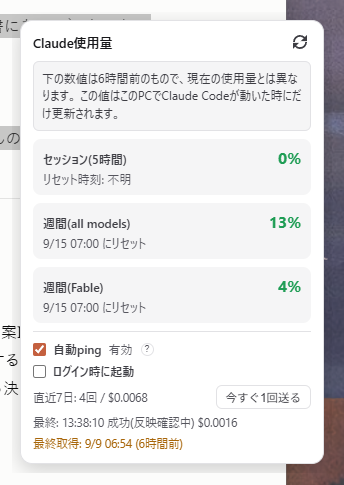
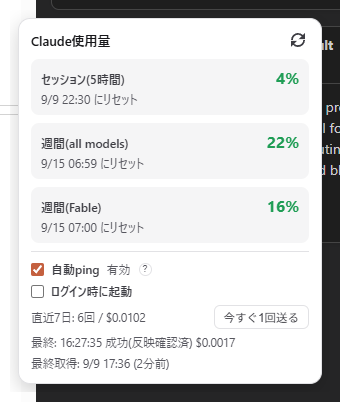
Actually show current usage: free interactive /usage refresh via PTY
The estimate feature from the previous commit was the wrong fix — it
projected a reset TIME while leaving percent at a stale 0%, which reads
as more broken than plain "不明" did, and didn't touch the actual problem
(seeing current usage). This replaces it with a real fix.

Root cause, now fully understood: `claude -p` (any flags) never refreshes
`cachedUsageUtilization` — confirmed extensively. But driving `/usage`
in a genuinely INTERACTIVE session does, immediately, and for free:
"Total cost: $0.0000, 0 input, 0 output" — it's a local account-status
query, not a message to the model. Verified directly via node-pty:
fetchedAtMs updated and the numbers matched the live screen exactly
(55% used, "Resets 5:30pm").

src/main/usage-refresh.ts drives this: spawn claude in a real PTY, handle
the one-time "trust this folder" dialog if it appears (checked against
the RAW buffer — this TUI positions words via cursor-advance escapes, so
ANSI-stripping first fuses "trust this folder" into "trustthisfolder" and
breaks a phrase match), wait for /usage's own content to render, /exit.
Runs every 2 minutes and on every tray click — free, so no reason to wait
5 minutes or only refresh on-demand. The existing paid ping mechanism is
unchanged and still necessary: /usage only refreshes what's displayed, it
makes zero API calls and does not extend the real session window.

Also fixed along the way (not app bugs, packaging lessons):
[…]

diff --git a/src/main/usage-refresh.ts b/src/main/usage-refresh.ts
@@ -1,0 +1,134 @@
+import * as pty from 'node-pty'
+import { mkdirSync } from 'node:fs'
+
+/**
+ * Forces a fresh read of `cachedUsageUtilization` by driving a real
+ * interactive `claude` session through `/usage` and exiting.
+ *
+ * Why this exists: `claude -p` (any flags, including `--safe-mode`,
+ * `--no-session-persistence`) was measured to leave the cache untouched
+ * for 6.75+ hours even under continuous heavy use. Driving `/usage`
+ * through a real PTY, by contrast, refreshes it immediately — verified
+ * directly: `fetchedAtMs` changed and the resulting numbers (55% session,
+ * "Resets 5:30pm") matched the interactive screen exactly. `/usage`
+ * itself is free: the screen it renders shows "Total cost: $0.0000,
+ * 0 input, 0 output" — it's a local account-status query, not a message
+ * to the model. This does NOT extend the session window (see
+ * ping-executor.ts for that) — it only lets the app observe the real
+ * current state instead of guessing.
+ *
+ * A "trust this folder" prompt appears on the first-ever interactive
+ * launch from a given directory and never again afterward (Claude Code
+ * persists the decision) — confirmed by running twice from the same
+ * scratch directory. Always reusing SCRATCH_DIR keeps this a one-time
+ * cost, not a per-refresh one.
+ */
+
+export interface RefreshResult {
+  ok: boolean
+  error?: string
+}
+
+const BOOT_IDLE_MS = 1200
+const POLL_INTERVAL_MS = 300
+const HARD_TIMEOUT_MS = 20_000
+
+function stripEscapes(s: string): string {
+  // Only used for keyword detection, never for parsing values — this is
+  // deliberately lossy (collapses cursor-advance-positioned spaces), see
+  // the raw-buffer note below.
+  // eslint-disable-next-line no-control-regex
+  return s.replace(/\x1b\[[0-9;?]*[a-zA-Z]/g, '')
+}
+
+export function refreshUsageViaInteractiveSession(claudePath: string, scratchDir: string): Promise<RefreshResult> {
+  try {
+    mkdirSync(scratchDir, { recursive: true })
+  } catch {
+    // best-effort
+  }
+
+  return new Promise((resolve) => {
+    let term: pty.IPty
+    try {
+      term = pty.spawn(claudePath, [], {
+        name: 'xterm-color',
+        cols: 120,
+        rows: 40,
+        cwd: scratchDir,
+        env: process.env as Record<string, string>
+      })
+    } catch (e) {
+      resolve({ ok: false, error: `spawn-failed: ${(e as Error).message}` })
+      return
+    }
+
+    let buffer = ''
+    let lastDataAt = Date.now()
+    let stage: 'boot' | 'trust' | 'usage' | 'done' = 'boot'
+    let settled = false
+
+    const finish = (result: RefreshResult): void => {
+      if (settled) return
+      settled = true
+      clearInterval(poll)
+      clearTimeout(hardTimeout)
+      try {
+        term.kill()
+      } catch {
+        // already gone
+      }
+      resolve(result)
+    }
+
+    term.onData((data) => {
+      buffer += data
+      lastDataAt = Date.now()
+    })
+    term.onExit(({ exitCode }) => {
+      // Exiting during 'usage'/'done' is the expected path (we asked it
+      // to via /exit); exiting earlier means something else happened
+      // (e.g. the trust dialog's default "No, exit" got triggered).
+      if (stage !== 'done') finish({ ok: false, error: `pty-exited-early: code ${exitCode}, stage ${stage}` })
+    })
+
+    const poll = setInterval(() => {
+      const idleMs = Date.now() - lastDataAt
+      if (idleMs < BOOT_IDLE_MS || buffer.length === 0) return
+
+      if (stage === 'boot') {
+        // Check the RAW buffer, not escape-stripped: this TUI positions
+        // words via cursor-advance escapes rather than literal space
+        // bytes, so stripping first can fuse "trust this folder" into
+        // "trustthisfolder" and break a phrase match. A single keyword
+        // survives either way.
+        if (/trust/i.test(buffer)) {
+          stage = 'trust'
+          buffer = ''
+          term.write('\x1b[B') // Down arrow, to "Yes, I trust this folder"
+          setTimeout(() => term.write('\r'), 300)
+        } else {
+          stage = 'usage'
+          buffer = ''
+          term.write('/usage\r')
+        }
+      } else if (stage === 'trust') {
+        stage = 'usage'
+        buffer = ''
+        term.write('/usage\r')
+      } else if (stage === 'usage') {
+        const text = stripEscapes(buffer)
+        // Wait for the usage screen's own content, not just any idle
+        // moment — it renders in a couple of incremental paints.
+        if (!/Current session|Resets/i.test(text)) return
+        stage = 'done'
+        term.write('/exit\r')
+        setTimeout(() => finish({ ok: true }), 800)
+      }
+    }, POLL_INTERVAL_MS)
+
+    const hardTimeout = setTimeout(() => {
+      finish({ ok: false, error: `timeout at stage ${stage}` })
+    }, HARD_TIMEOUT_MS)
+  })
+}

diff --git a/src/main/index.ts b/src/main/index.ts
@@ -1,4 +1,6 @@
 import { app, ipcMain } from 'electron'
+import { tmpdir } from 'node:os'
+import { join } from 'node:path'
 import { bucketToDto } from '../core/usage-parser'
 import { checkGuards } from '../core/budget-guard'
 import { bucketKeyForReason, reconcilePendingPings } from '../core/ping-confirm'
@@ -10,10 +12,18 @@ import { loadConfig, saveConfig } from './config-store'
 import { Ledger } from './ledger'
 import { runPing } from './ping-executor'
 import { AppTray } from './tray'
+import { refreshUsageViaInteractiveSession } from './usage-refresh'
 import { UsageStore } from './usage-store'
 import { PopupWindowManager } from './window-manager'
 
-const REFRESH_INTERVAL_MS = 5 * 60_000
+// Free (verified: interactive /usage renders "Total cost: $0.0000" — no
+// model call happens), so this can run far more often than the old
+// file-only poll. Still not instant-instant: each run boots a real
+// claude process (~3-5s observed), so this is a floor on responsiveness,
+// not a cost concern.
+const REFRESH_INTERVAL_MS = 2 * 60_000
+const REFRESH_SCRATCH_DIR = join(tmpdir(), 'usagetray-refresh-scratch')
+let refreshInFlight = false
 
 let config: Config = loadConfig()
 let tray: AppTray | null = null
@@ -136,7 +146,29 @@ async function runPingNow(): Promise<{ ok: boolean; message: string }> {
   return { ok: true, message: `送信しました ($${(entry.costUsd ?? 0).toFixed(4)})` }
 }
 
+/**
+ * Drives the free interactive-`/usage` refresh (see usage-refresh.ts),
+ * then re-reads the now-hopefully-fresh cache file. Guarded by
+ * `refreshInFlight` so overlapping calls (periodic tick + a manual click
+ * landing at the same moment) don't spawn two `claude` processes at
+ * once. Failure is silent by design — the file-only read this falls back
+ * to, plus the session-reset estimate, are the existing degraded path.
+ */
+async function activeRefresh(): Promise<void> {
+  if (refreshInFlight) return
+  refreshInFlight = true
+  try {
+    const claudePath = resolveClaudePath()
+    if (claudePath) {
+      await refreshUsageViaInteractiveSession(claudePath, REFRESH_SCRATCH_DIR)
+    }
+  } finally {
+    refreshInFlight = false
+  }
+}
+
 async function tick(manual = false): Promise<void> {
+  await activeRefresh()
   const { changed } = usageStore.refresh()
   const snap = usageStore.getSnapshot()
   tray?.update(snap)
@@ -173,7 +205,12 @@ app.whenReady().then(() => {
   ledger = new Ledger()
   popup = new PopupWindowManager(buildPopupState)
   tray = new AppTray(
-    () => popup?.toggle(tray!.getBounds()),
+    () => {
+      popup?.toggle(tray!.getBounds())
+      // Pull fresh data the moment the user actually looks, rather than
+      // waiting for the next scheduled tick — free, so no reason not to.
+      void tick(true)
+    },
     () => app.quit()
   )
 

diff --git a/src/main/tray.ts b/src/main/tray.ts
@@ -19,8 +19,11 @@ const COLORS: Record<string, RgbaColor> = {
   unknown: [150, 150, 150, 255]
 }
 
-/** Past this age the cached numbers are too old to present as current. */
-const STALE_AFTER_MS = 30 * 60_000
+/** Past this age the cached numbers are too old to present as current.
+ * The active refresh (usage-refresh.ts) runs every 2 minutes and on every
+ * tray click, so anything older than this means that refresh has been
+ * failing, not just "hasn't happened yet". */
+const STALE_AFTER_MS = 10 * 60_000
 
 function colorForSeverity(severity: string | undefined): RgbaColor {
   return COLORS[severity ?? ''] ?? COLORS.unknown

diff --git a/src/renderer/src/App.tsx b/src/renderer/src/App.tsx
@@ -8,7 +8,11 @@ declare global {
   }
 }
 
-const STALE_AFTER_MS = 30 * 60_000
+// The active refresh (usage-refresh.ts) runs every 2 minutes and on every
+// popup open, so data older than this means that refresh has been
+// failing, not just "hasn't happened yet" — a much shorter bar than
+// before it existed.
+const STALE_AFTER_MS = 10 * 60_000
 
 function formatAge(ms: number): string {
   const minutes = Math.floor(ms / 60_000)
